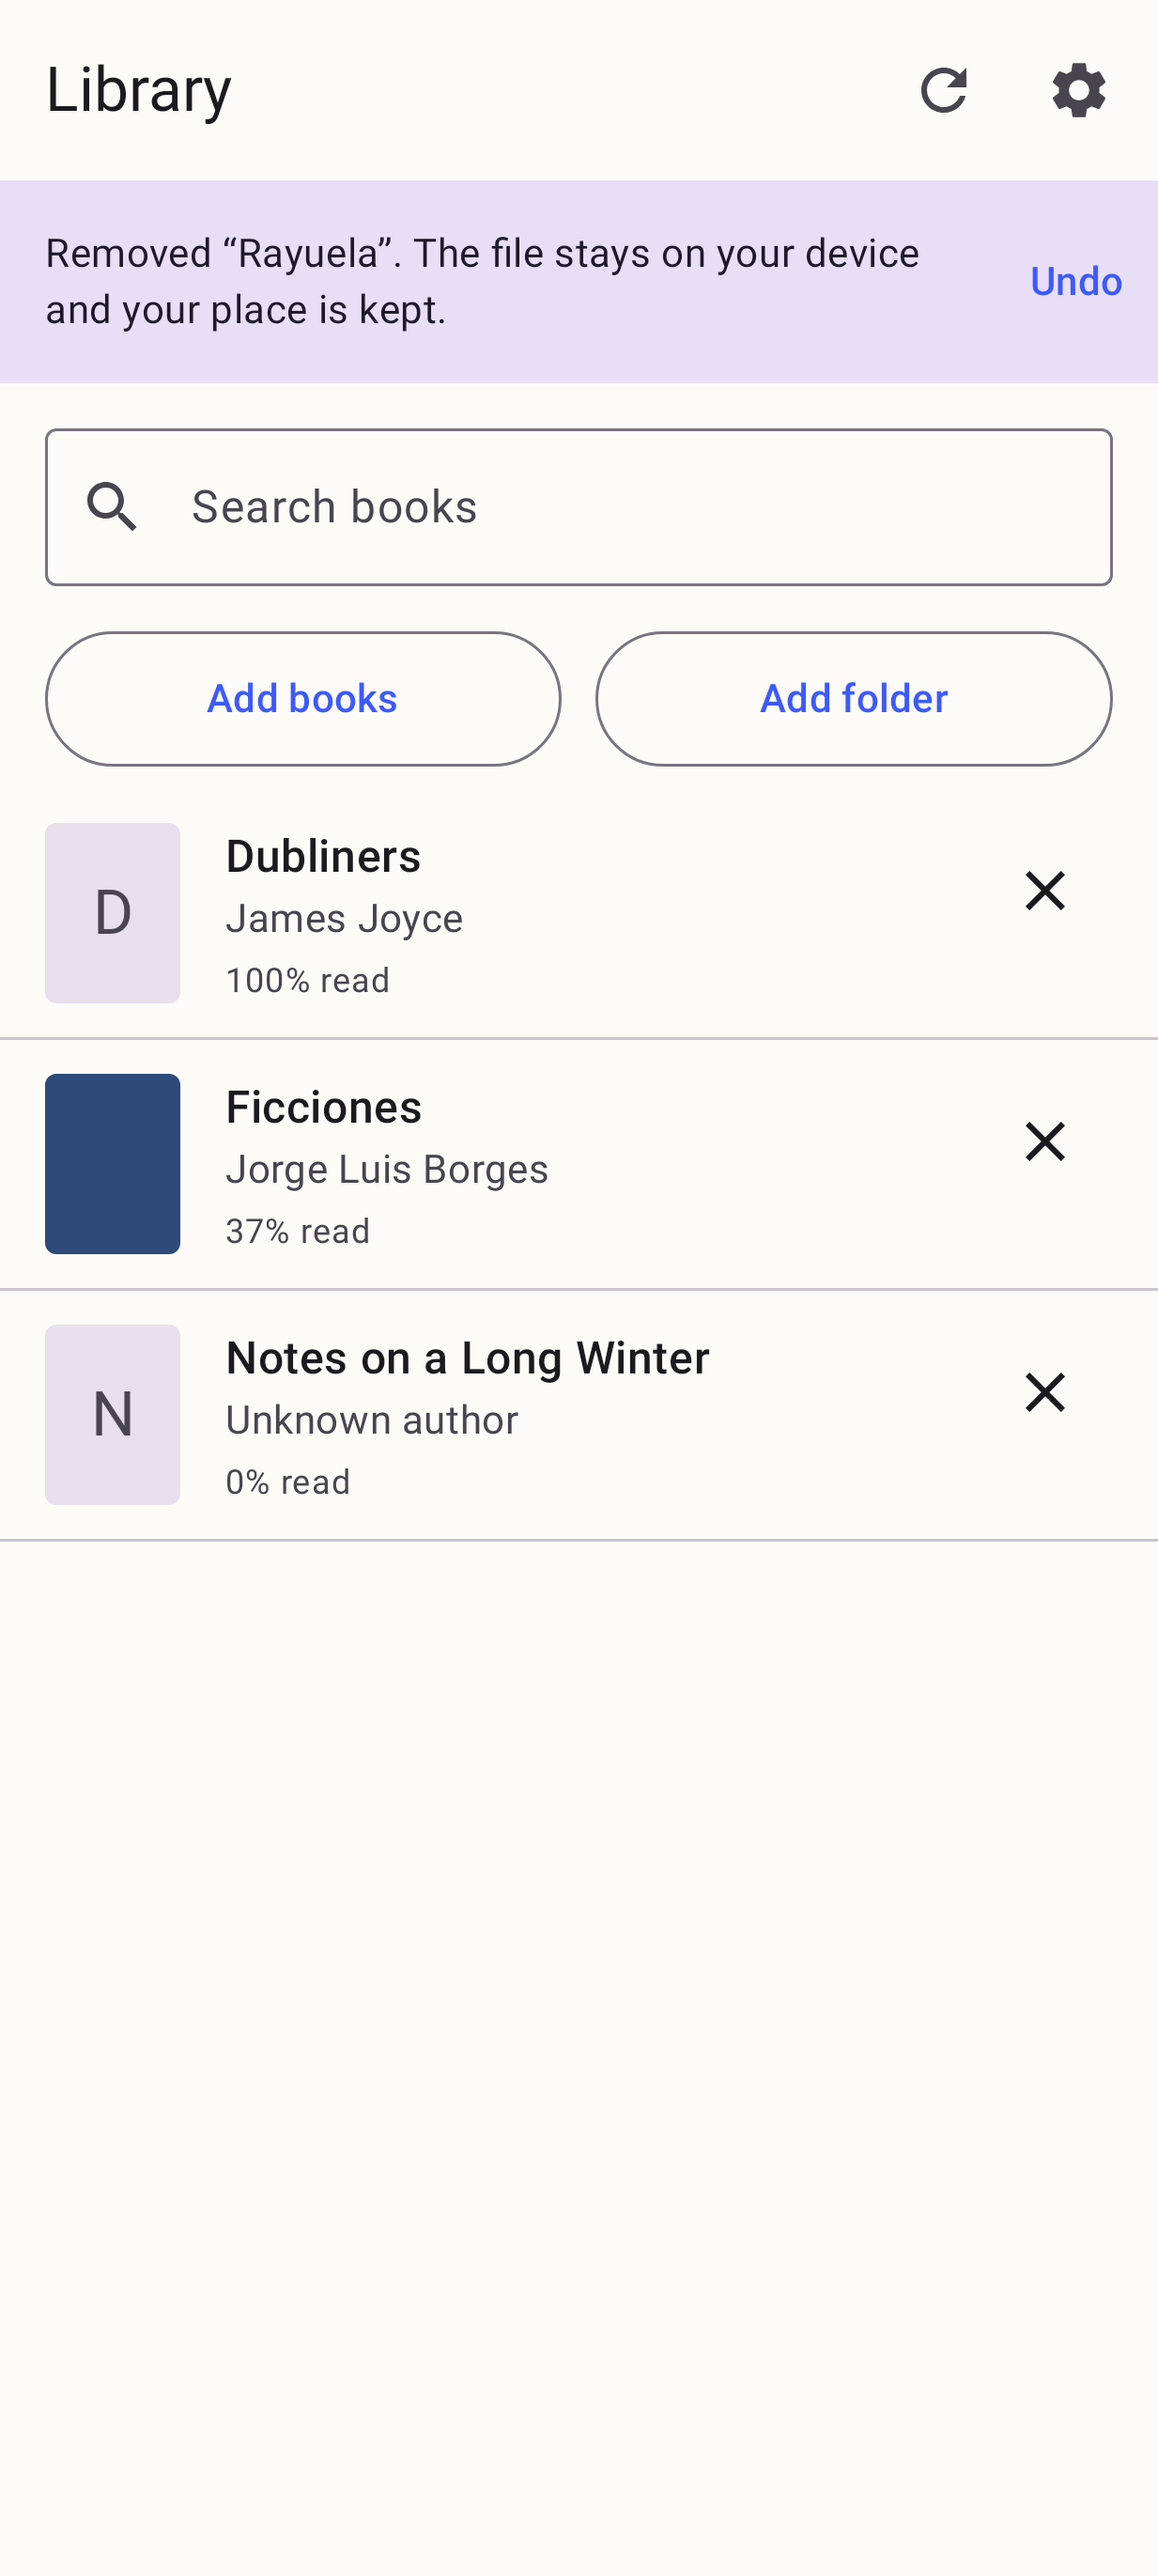
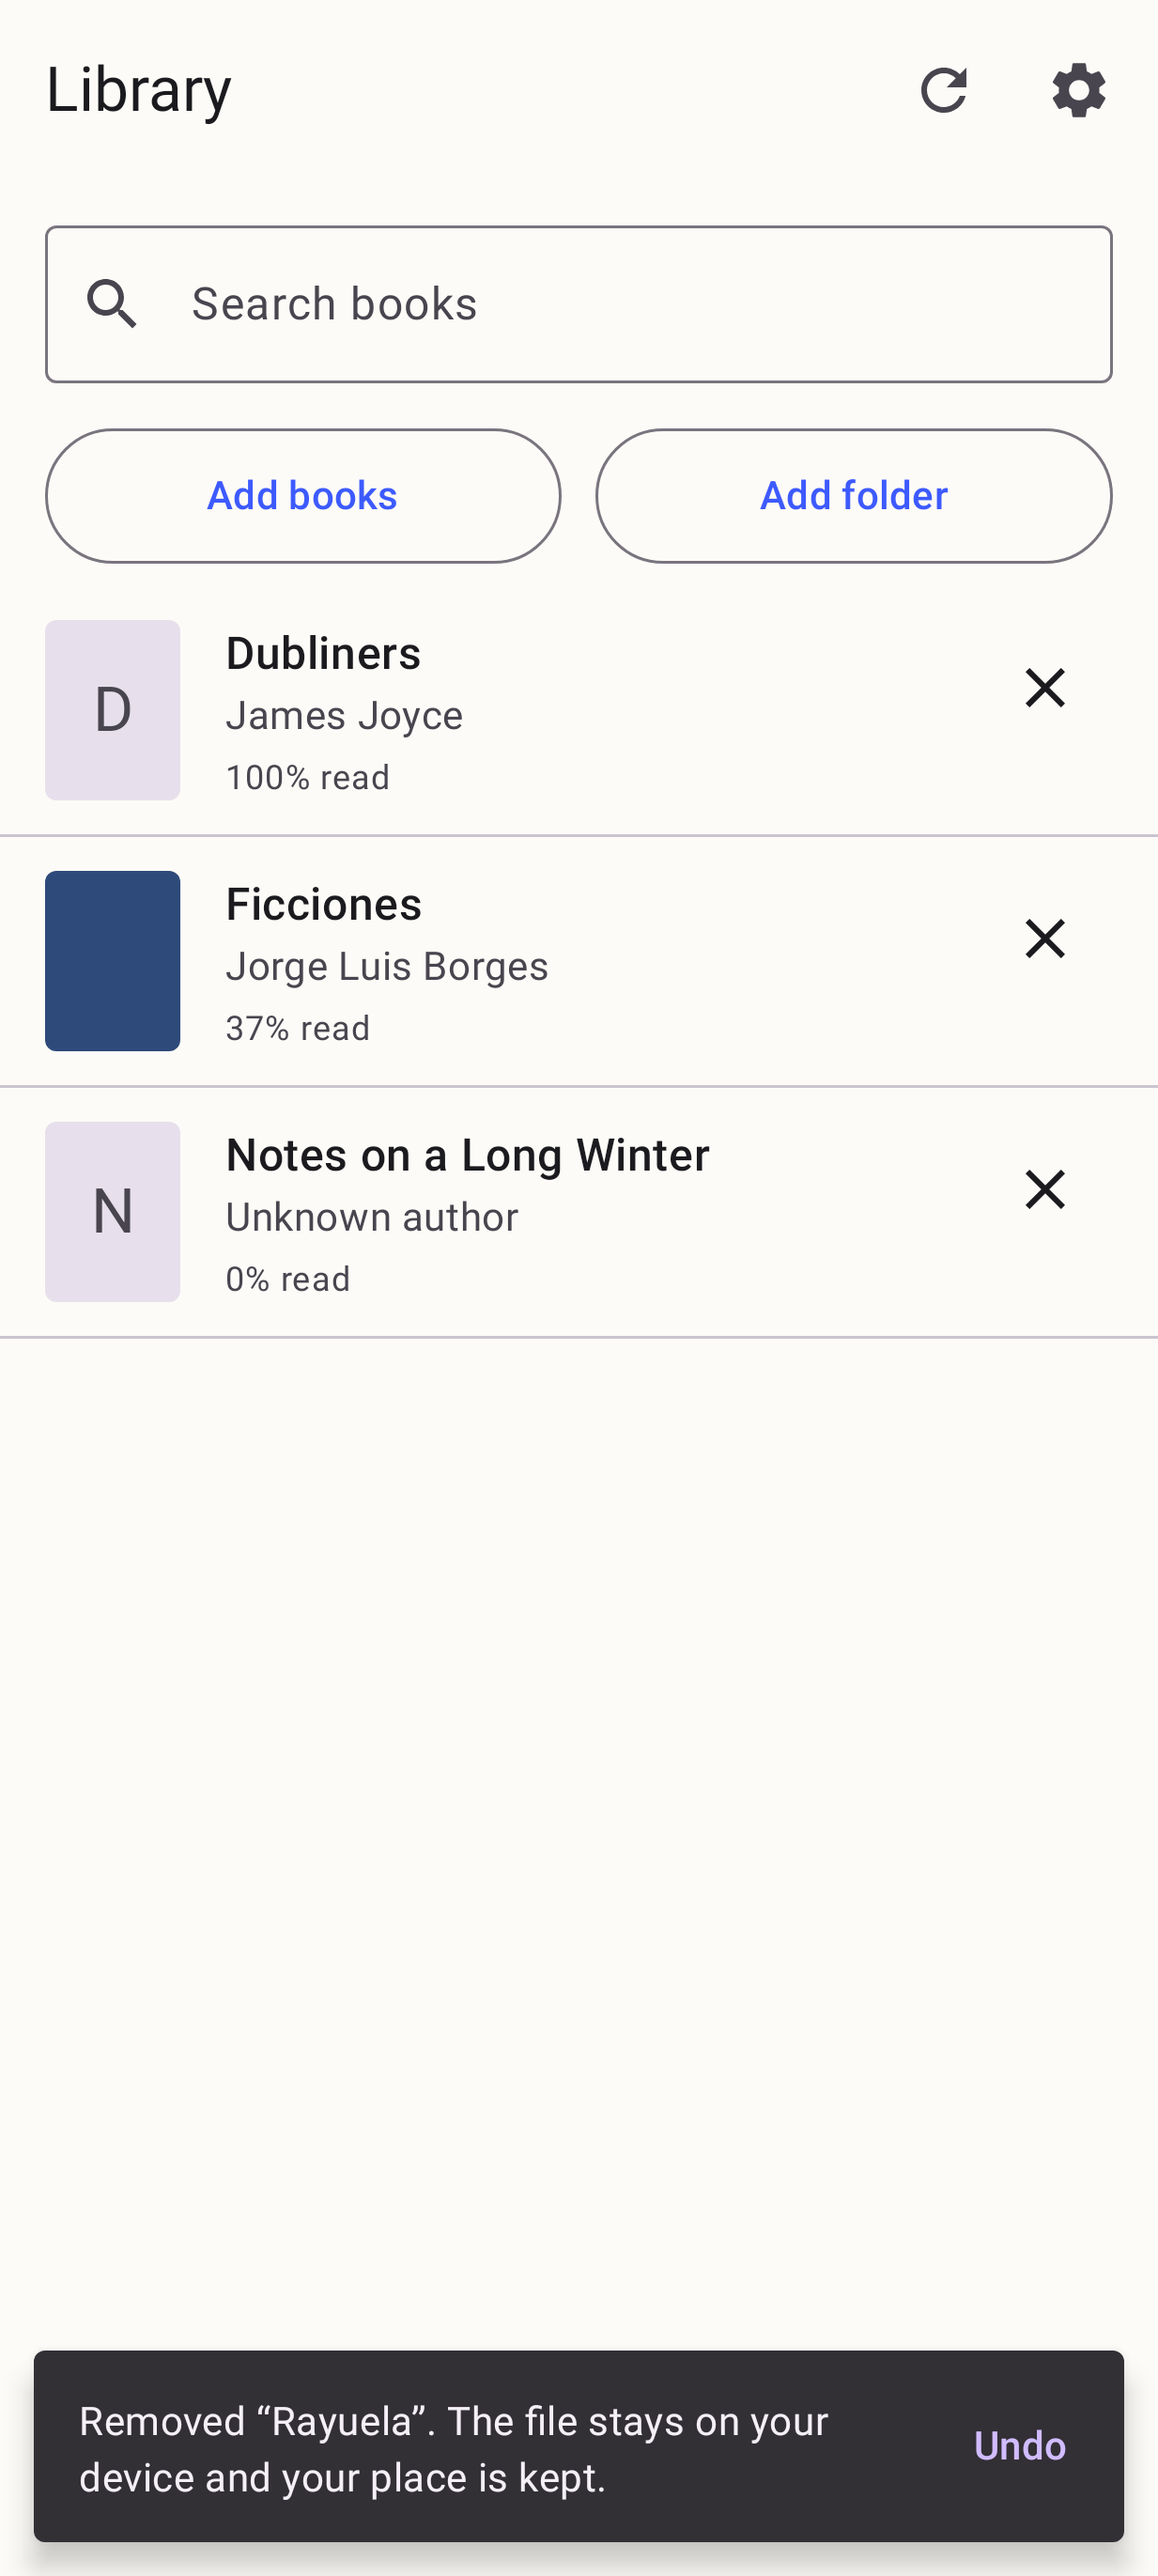
Anchor the undo offer to the bottom of the library
A book removed from the end of a long list would have put the top banner
off-screen, and an offer that expires in eight seconds is worth nothing if
the reader has to scroll to find it. It is a plain Snackbar driven by the
screen state rather than a SnackbarHostState, so it stays as testable as
every other library state and the window itself stays the repository's.

diff --git a/app/src/main/java/com/cedagova/fastreader/library/ui/LibraryScreen.kt b/app/src/main/java/com/cedagova/fastreader/library/ui/LibraryScreen.kt
@@ -27,6 +27,7 @@ import androidx.compose.material.icons.filled.Clear
 import androidx.compose.material.icons.filled.Refresh
 import androidx.compose.material.icons.filled.Settings
 import androidx.compose.material.icons.filled.Search
+import androidx.compose.material3.ButtonDefaults
 import androidx.compose.material3.ExperimentalMaterial3Api
 import androidx.compose.material3.HorizontalDivider
 import androidx.compose.material3.Icon
@@ -36,6 +37,7 @@ import androidx.compose.material3.MaterialTheme
 import androidx.compose.material3.OutlinedButton
 import androidx.compose.material3.OutlinedTextField
 import androidx.compose.material3.Scaffold
+import androidx.compose.material3.Snackbar
 import androidx.compose.material3.Surface
 import androidx.compose.material3.Text
 import androidx.compose.material3.TextButton
@@ -113,11 +115,11 @@ fun LibraryScreen(
                 },
             )
         },
+        bottomBar = { state.undoNotice?.let { UndoBar(it, onUndoRemove) } },
     ) { innerPadding ->
         Column(modifier = Modifier.fillMaxSize().padding(innerPadding)) {
             state.failureMessage?.let { FailureBanner(it) }
             state.resumeNotice?.let { ResumeNoticeBanner(it, onDismissResumeNotice) }
-            state.undoNotice?.let { UndoBanner(it, onUndoRemove) }
             state.scan?.let { ScanBanner(it) }
             when (state.content) {
                 LibraryContent.EMPTY_LIBRARY -> EmptyLibrary(
@@ -202,31 +204,29 @@ private fun ResumeNoticeBanner(notice: ResumeNotice, onDismiss: () -> Unit) {
 /**
  * The removal the reader can still take back (REQ-105).
  *
- * A banner rather than a snackbar, for the same reason every other library state
- * is one: it is reachable from a [LibraryUiState] value, so the goldens can
- * prove the copy and the control instead of a timing-dependent overlay. It says
+ * Anchored to the bottom of the screen rather than stacked with the banners at
+ * the top: a book removed from the end of a long list would put a top banner
+ * off-screen, and an offer that expires in eight seconds is worth nothing if the
+ * reader has to scroll to find it.
+ *
+ * It is a plain [Snackbar] driven by [LibraryUiState] rather than a
+ * `SnackbarHostState`, so it stays as testable as every other library state:
+ * the goldens prove the copy and the control instead of a timing-dependent
+ * overlay, and the window itself is the repository's to keep. The sentence says
  * what happened to the *file* as well as to the row, because "removed" is
  * exactly the word a reader would fear meant deleted.
  */
 @Composable
-private fun UndoBanner(notice: UndoNotice, onUndo: () -> Unit) {
+private fun UndoBar(notice: UndoNotice, onUndo: () -> Unit) {
     val undoLabel = stringResource(R.string.library_undo_label, notice.title)
-    Surface(
-        color = MaterialTheme.colorScheme.secondaryContainer,
-        contentColor = MaterialTheme.colorScheme.onSecondaryContainer,
-        modifier = Modifier.fillMaxWidth().testTag("library_undo"),
-    ) {
-        Row(
-            verticalAlignment = Alignment.CenterVertically,
-            modifier = Modifier.padding(start = 16.dp, top = 12.dp, bottom = 12.dp),
-        ) {
-            Text(
-                text = stringResource(R.string.library_undo_removed, notice.title),
-                style = MaterialTheme.typography.bodyMedium,
-                modifier = Modifier.weight(1f),
-            )
+    Snackbar(
+        modifier = Modifier.padding(12.dp).testTag("library_undo"),
+        action = {
             TextButton(
                 onClick = onUndo,
+                colors = ButtonDefaults.textButtonColors(
+                    contentColor = MaterialTheme.colorScheme.inversePrimary,
+                ),
                 modifier = Modifier
                     .defaultMinSize(minWidth = TouchTarget, minHeight = TouchTarget)
                     .testTag("library_undo_action")
@@ -234,7 +234,9 @@ private fun UndoBanner(notice: UndoNotice, onUndo: () -> Unit) {
             ) {
                 Text(stringResource(R.string.library_undo))
             }
-        }
+        },
+    ) {
+        Text(stringResource(R.string.library_undo_removed, notice.title))
     }
 }
 
